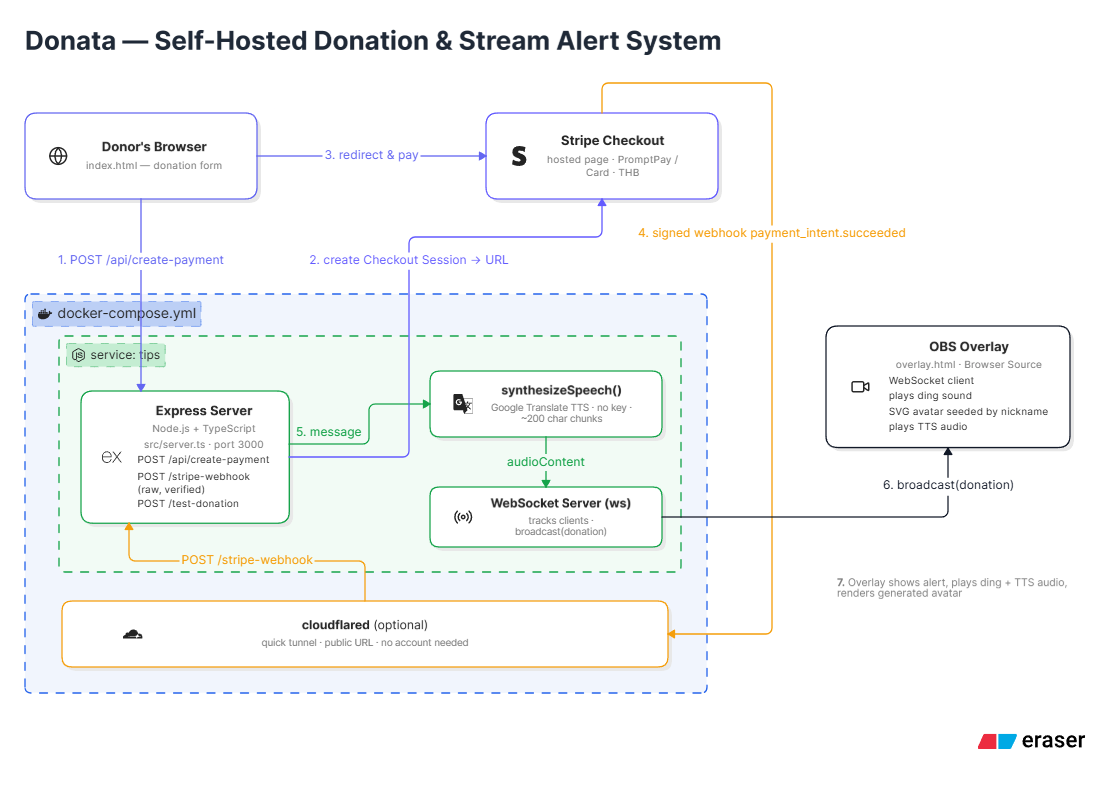
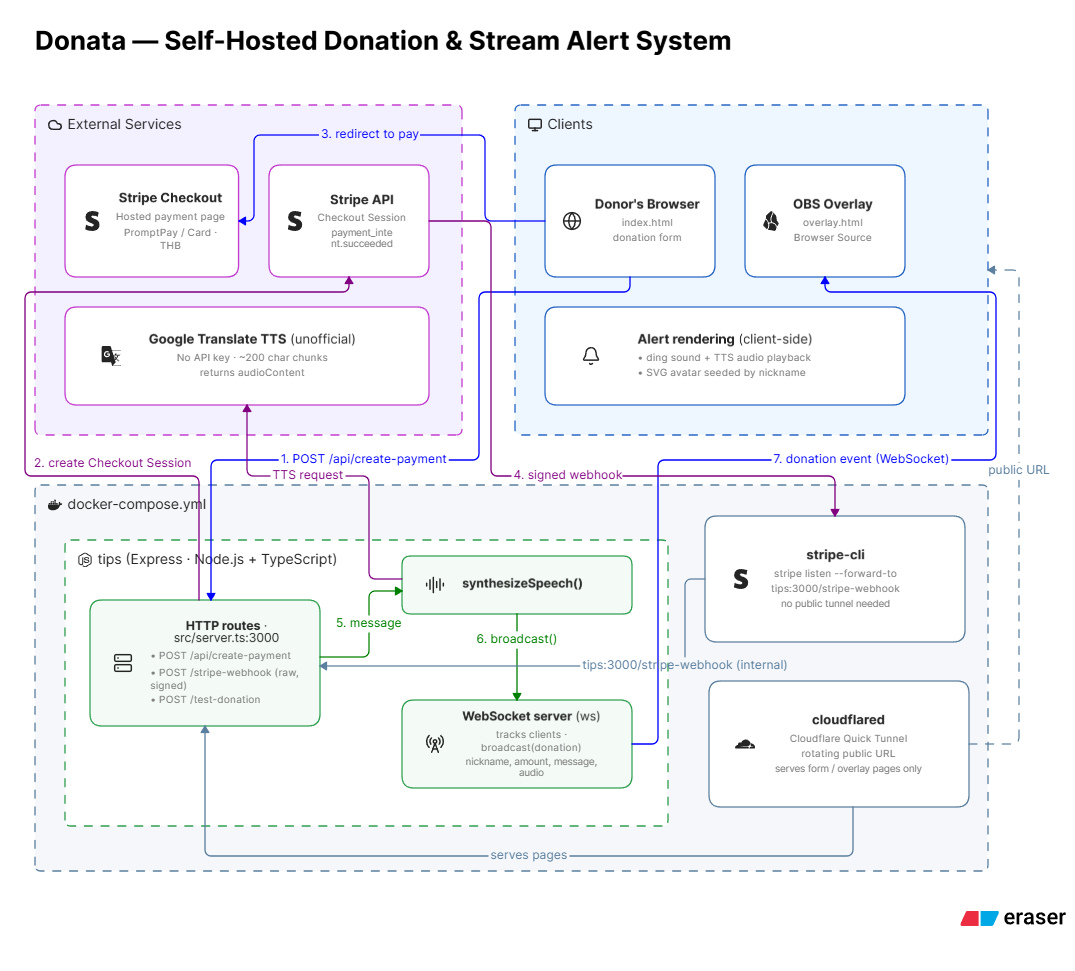
Document Stripe CLI webhook forwarding in README
Reflects the docker-compose stripe-cli service that now forwards webhooks over the internal Docker network, decoupling webhook delivery from the rotating cloudflared tunnel URL.

diff --git a/README.md b/README.md
@@ -39,6 +39,7 @@ Donata is a self-hosted donation system for streamers. Viewers donate via Stripe
 - **Ding sound + generated avatar** on every alert (no image assets required)
 - **Self-hosted**: full control over your data and infrastructure
 - **Docker Compose** setup that includes an optional Cloudflare Tunnel service, so you can expose your local server publicly without configuring router port forwarding
+- **Stripe CLI webhook forwarding** runs as its own container, delivering webhooks straight to the app over the Docker network — independent of the Cloudflare tunnel's rotating URL
 
 ## Architecture
 
@@ -70,14 +71,15 @@ cp .env.example .env
 docker compose up -d
 ```
 
-This starts two containers:
+This starts three containers:
 
 - `tips` — the app, served on `http://localhost:3002`
-- `cloudflared` — a Cloudflare Quick Tunnel exposing that port publicly (no account needed). The public URL is printed in its logs:
+- `cloudflared` — a Cloudflare Quick Tunnel exposing that port publicly (no account needed), for the donation form/overlay pages. The public URL is printed in its logs:
   ```bash
   docker compose logs cloudflared | grep trycloudflare.com
   ```
   The URL changes every time the stack restarts. If you need a stable URL, set up a [named Cloudflare Tunnel](https://developers.cloudflare.com/cloudflare-one/connections/connect-apps) with your own domain instead, or deploy to a VPS.
+- `stripe-cli` — forwards Stripe webhooks directly to the `tips` container over the Docker network (`stripe listen --forward-to tips:3000/stripe-webhook`). Since it talks to `tips` on the internal network, it works regardless of the `cloudflared` URL — webhook delivery doesn't depend on your public URL at all.
 
 ### Local development (without Docker)
 
@@ -103,15 +105,29 @@ In the [Stripe Dashboard → Payment methods](https://dashboard.stripe.com/setti
 
 ## Stripe Webhook Setup
 
-**Local development** — use the Stripe CLI, no public URL needed:
+**With Docker (default)** — the `stripe-cli` service already forwards webhooks to the app, no public URL needed, even for the deployed stack. Grab its signing secret from the logs on first run and put it in `.env`:
 
 ```bash
-stripe listen --forward-to localhost:3002/stripe-webhook
+docker compose logs stripe-cli | grep whsec_
+```
+
+Set that value as `STRIPE_WEBHOOK_SECRET`, then restart the app so it picks up the new secret:
+
+```bash
+docker compose up -d tips
+```
+
+If donations complete in Stripe but the overlay never fires, check `docker compose logs stripe-cli` first for signature/connection errors before suspecting the Cloudflare tunnel — the two are unrelated.
+
+**Without Docker (local dev)** — run the Stripe CLI yourself:
+
+```bash
+stripe listen --forward-to localhost:3000/stripe-webhook
 ```
 
 This prints a `whsec_...` secret — put it in `STRIPE_WEBHOOK_SECRET`.
 
-**Public / production** — in the [Stripe Dashboard → Webhooks](https://dashboard.stripe.com/webhooks):
+**Public / production via Stripe Dashboard** (alternative to running `stripe-cli` long-term) — in the [Stripe Dashboard → Webhooks](https://dashboard.stripe.com/webhooks):
 
 1. Add endpoint → `https://<your-public-url>/stripe-webhook`
 2. Listen for: `payment_intent.succeeded`
